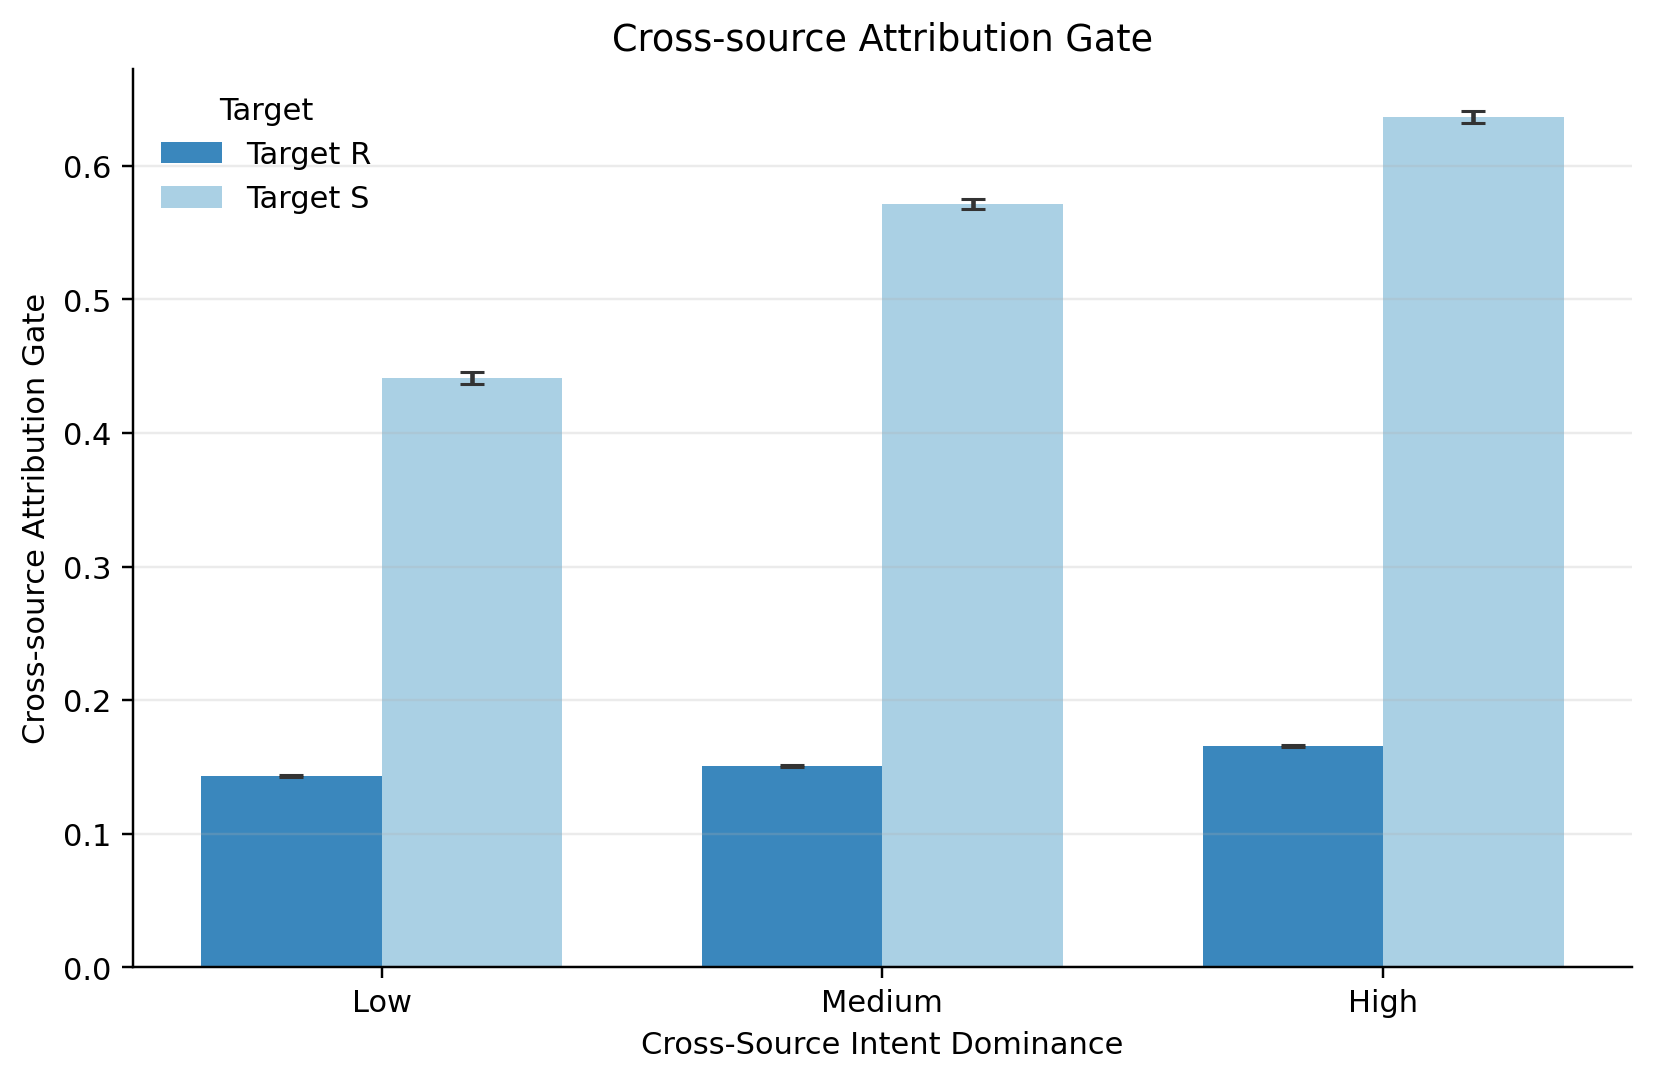
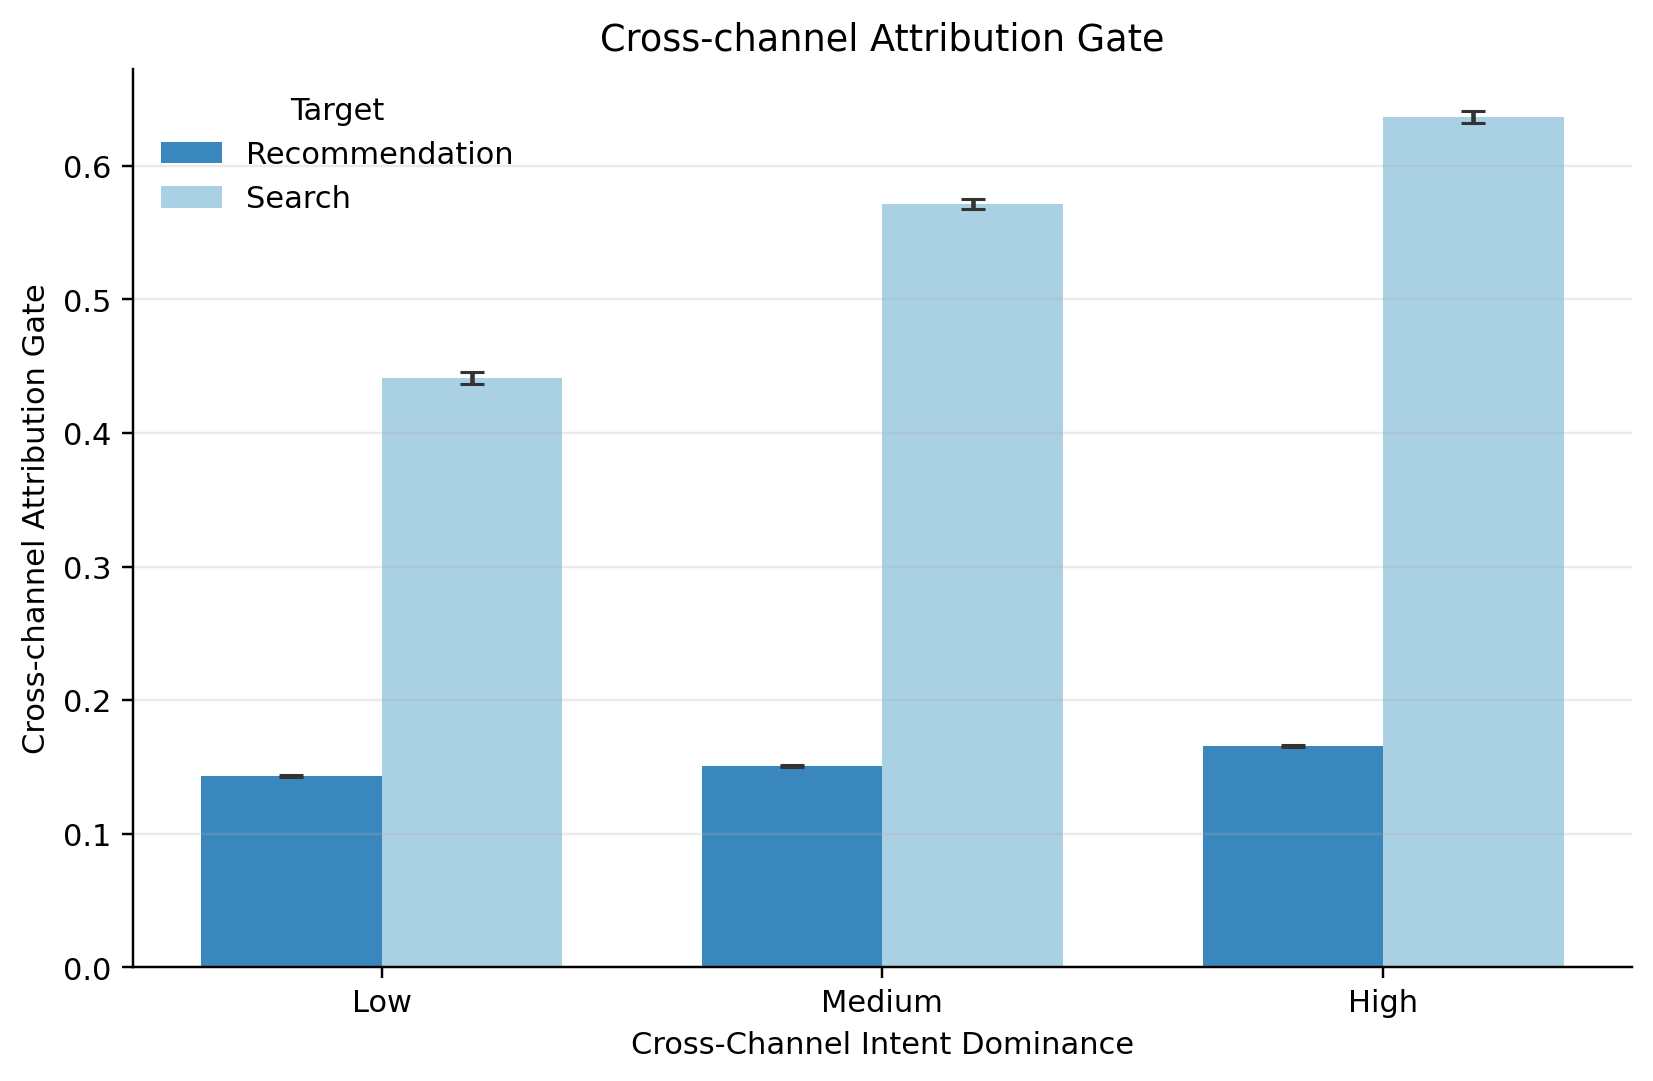
name changes

diff --git a/5-Validation/script/5-state-validation.py b/5-Validation/script/5-state-validation.py
@@ -867,7 +867,7 @@ def plot_uncertainty_summary(summary: pd.DataFrame, out_path: Path) -> None:
         ax.set_xticks(x, plot_df["state"].tolist())
         ax.set_title(title)
         ax.set_ylabel(title)
-        ax.set_xlabel("Inferred Uncertainty State")
+        ax.set_xlabel("Explorative Transition State")
         ax.grid(axis="y", alpha=0.25)
         ax.spines["top"].set_visible(False)
         ax.spines["right"].set_visible(False)
@@ -884,7 +884,7 @@ def plot_transition_summary(summary: pd.DataFrame, intent_dominance_summary: pd.
     x = np.arange(len(bins))
     width = 0.36
     fig, ax = plt.subplots(1, 1, figsize=(7.4, 4.8), constrained_layout=True)
-    channel_specs = [("R", "Target R", "#1f77b4", -width / 2), ("S", "Target S", "#9ecae1", width / 2)]
+    channel_specs = [("R", "Recommendation", "#1f77b4", -width / 2), ("S", "Search", "#9ecae1", width / 2)]
     for channel, label, color, offset in channel_specs:
         plot_df = (
             intent_dominance_summary[intent_dominance_summary["channel"] == channel]
@@ -899,9 +899,9 @@ def plot_transition_summary(summary: pd.DataFrame, intent_dominance_summary: pd.
         ax.bar(xpos, means, width=width, color=color, alpha=0.88, label=label)
         ax.errorbar(xpos, means, yerr=1.96 * sems, fmt="none", ecolor="#333333", capsize=4)
     ax.set_xticks(x, bins)
-    ax.set_title("Cross-source Attribution Gate")
-    ax.set_ylabel("Cross-source Attribution Gate")
-    ax.set_xlabel("Cross-Source Intent Dominance")
+    ax.set_title("Cross-channel Attribution Gate")
+    ax.set_ylabel("Cross-channel Attribution Gate")
+    ax.set_xlabel("Cross-Channel Intent Dominance")
     ax.grid(axis="y", alpha=0.25)
     ax.spines["top"].set_visible(False)
     ax.spines["right"].set_visible(False)

diff --git a/5-Validation/script/ablation_analysis.py b/5-Validation/script/ablation_analysis.py
@@ -685,7 +685,7 @@ def plot_state_resistance_panel(ax, df: pd.DataFrame) -> None:
     x = np.arange(len(STATE_VARIANTS))
     labels = [VARIANT_LABELS[v] for v in STATE_VARIANTS]
     metric = "shock_resistance"
-    title = "Exploration resistance"
+    title = "Exploration Resistance"
     means = []
     sems = []
     for variant in STATE_VARIANTS:
@@ -727,8 +727,8 @@ def plot_source_prediction_panel(ax, df: pd.DataFrame) -> None:
         ax.errorbar(xpos, means, yerr=1.96 * sems, fmt="none", ecolor="#333333", capsize=4)
         ax.scatter(xpos, means, s=24, color="#111111", zorder=3)
     ax.set_xticks(x, groups)
-    ax.set_title("Source prediction score differentiation", loc="center", fontsize=11, weight="normal")
-    ax.set_ylabel("Absolute source prediction score gap")
+    ax.set_title("Channel Prediction Score Gap", loc="center", fontsize=11, weight="normal")
+    ax.set_ylabel("Channel Prediction Score Gap")
     ax.set_ylim(0, 0.7)
     ax.grid(axis="y", alpha=0.25)
     ax.spines["top"].set_visible(False)